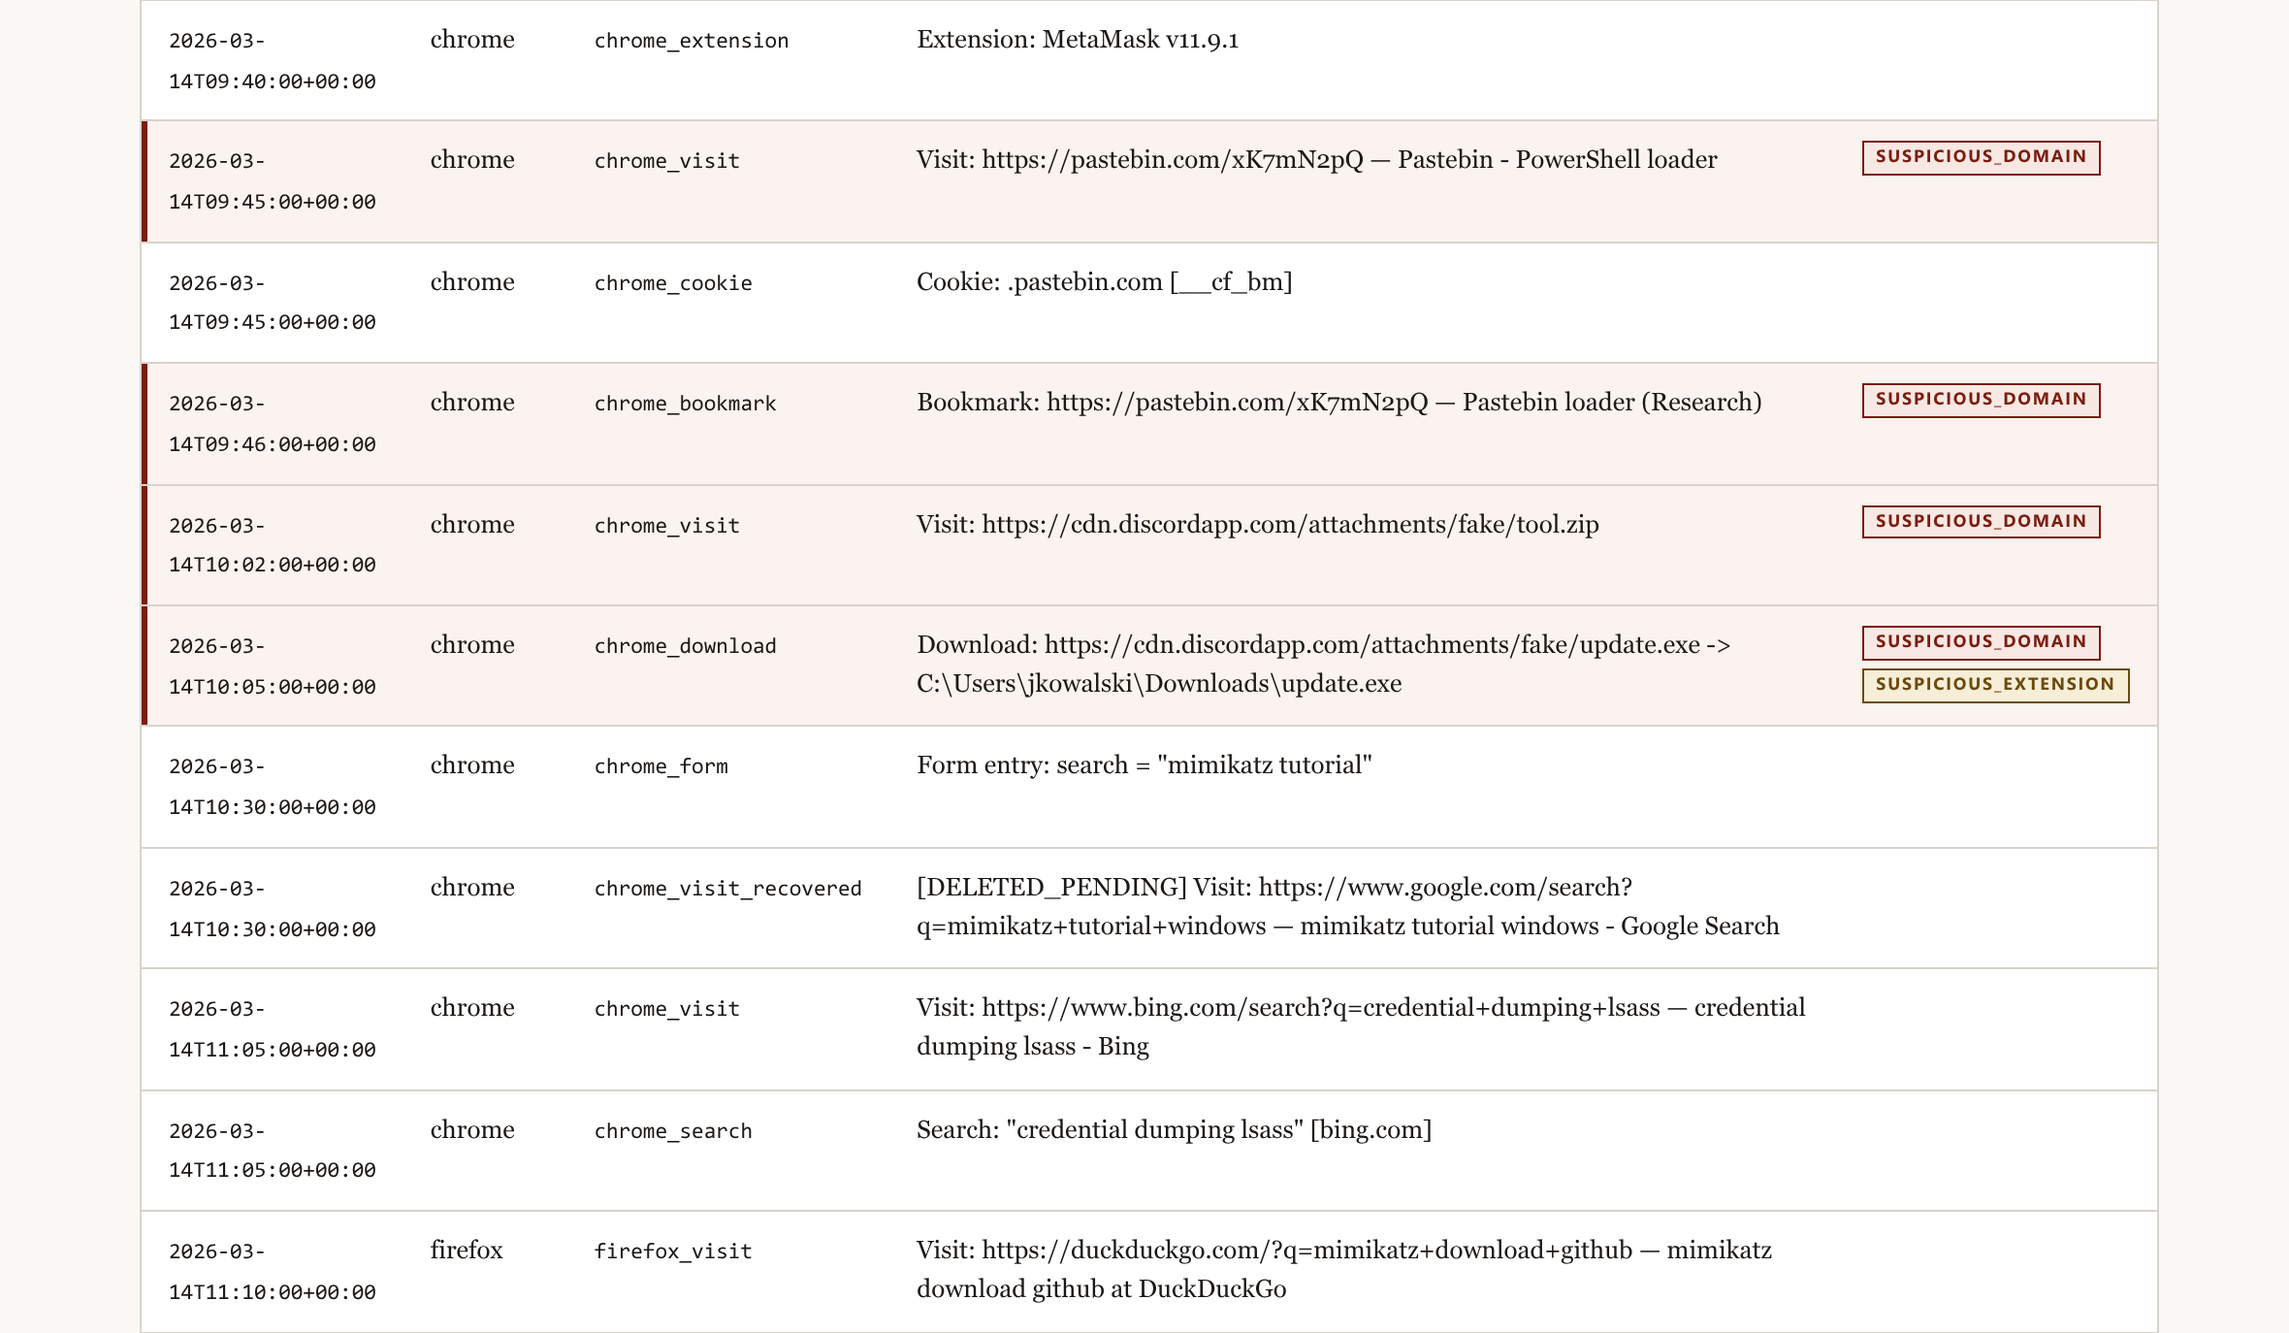
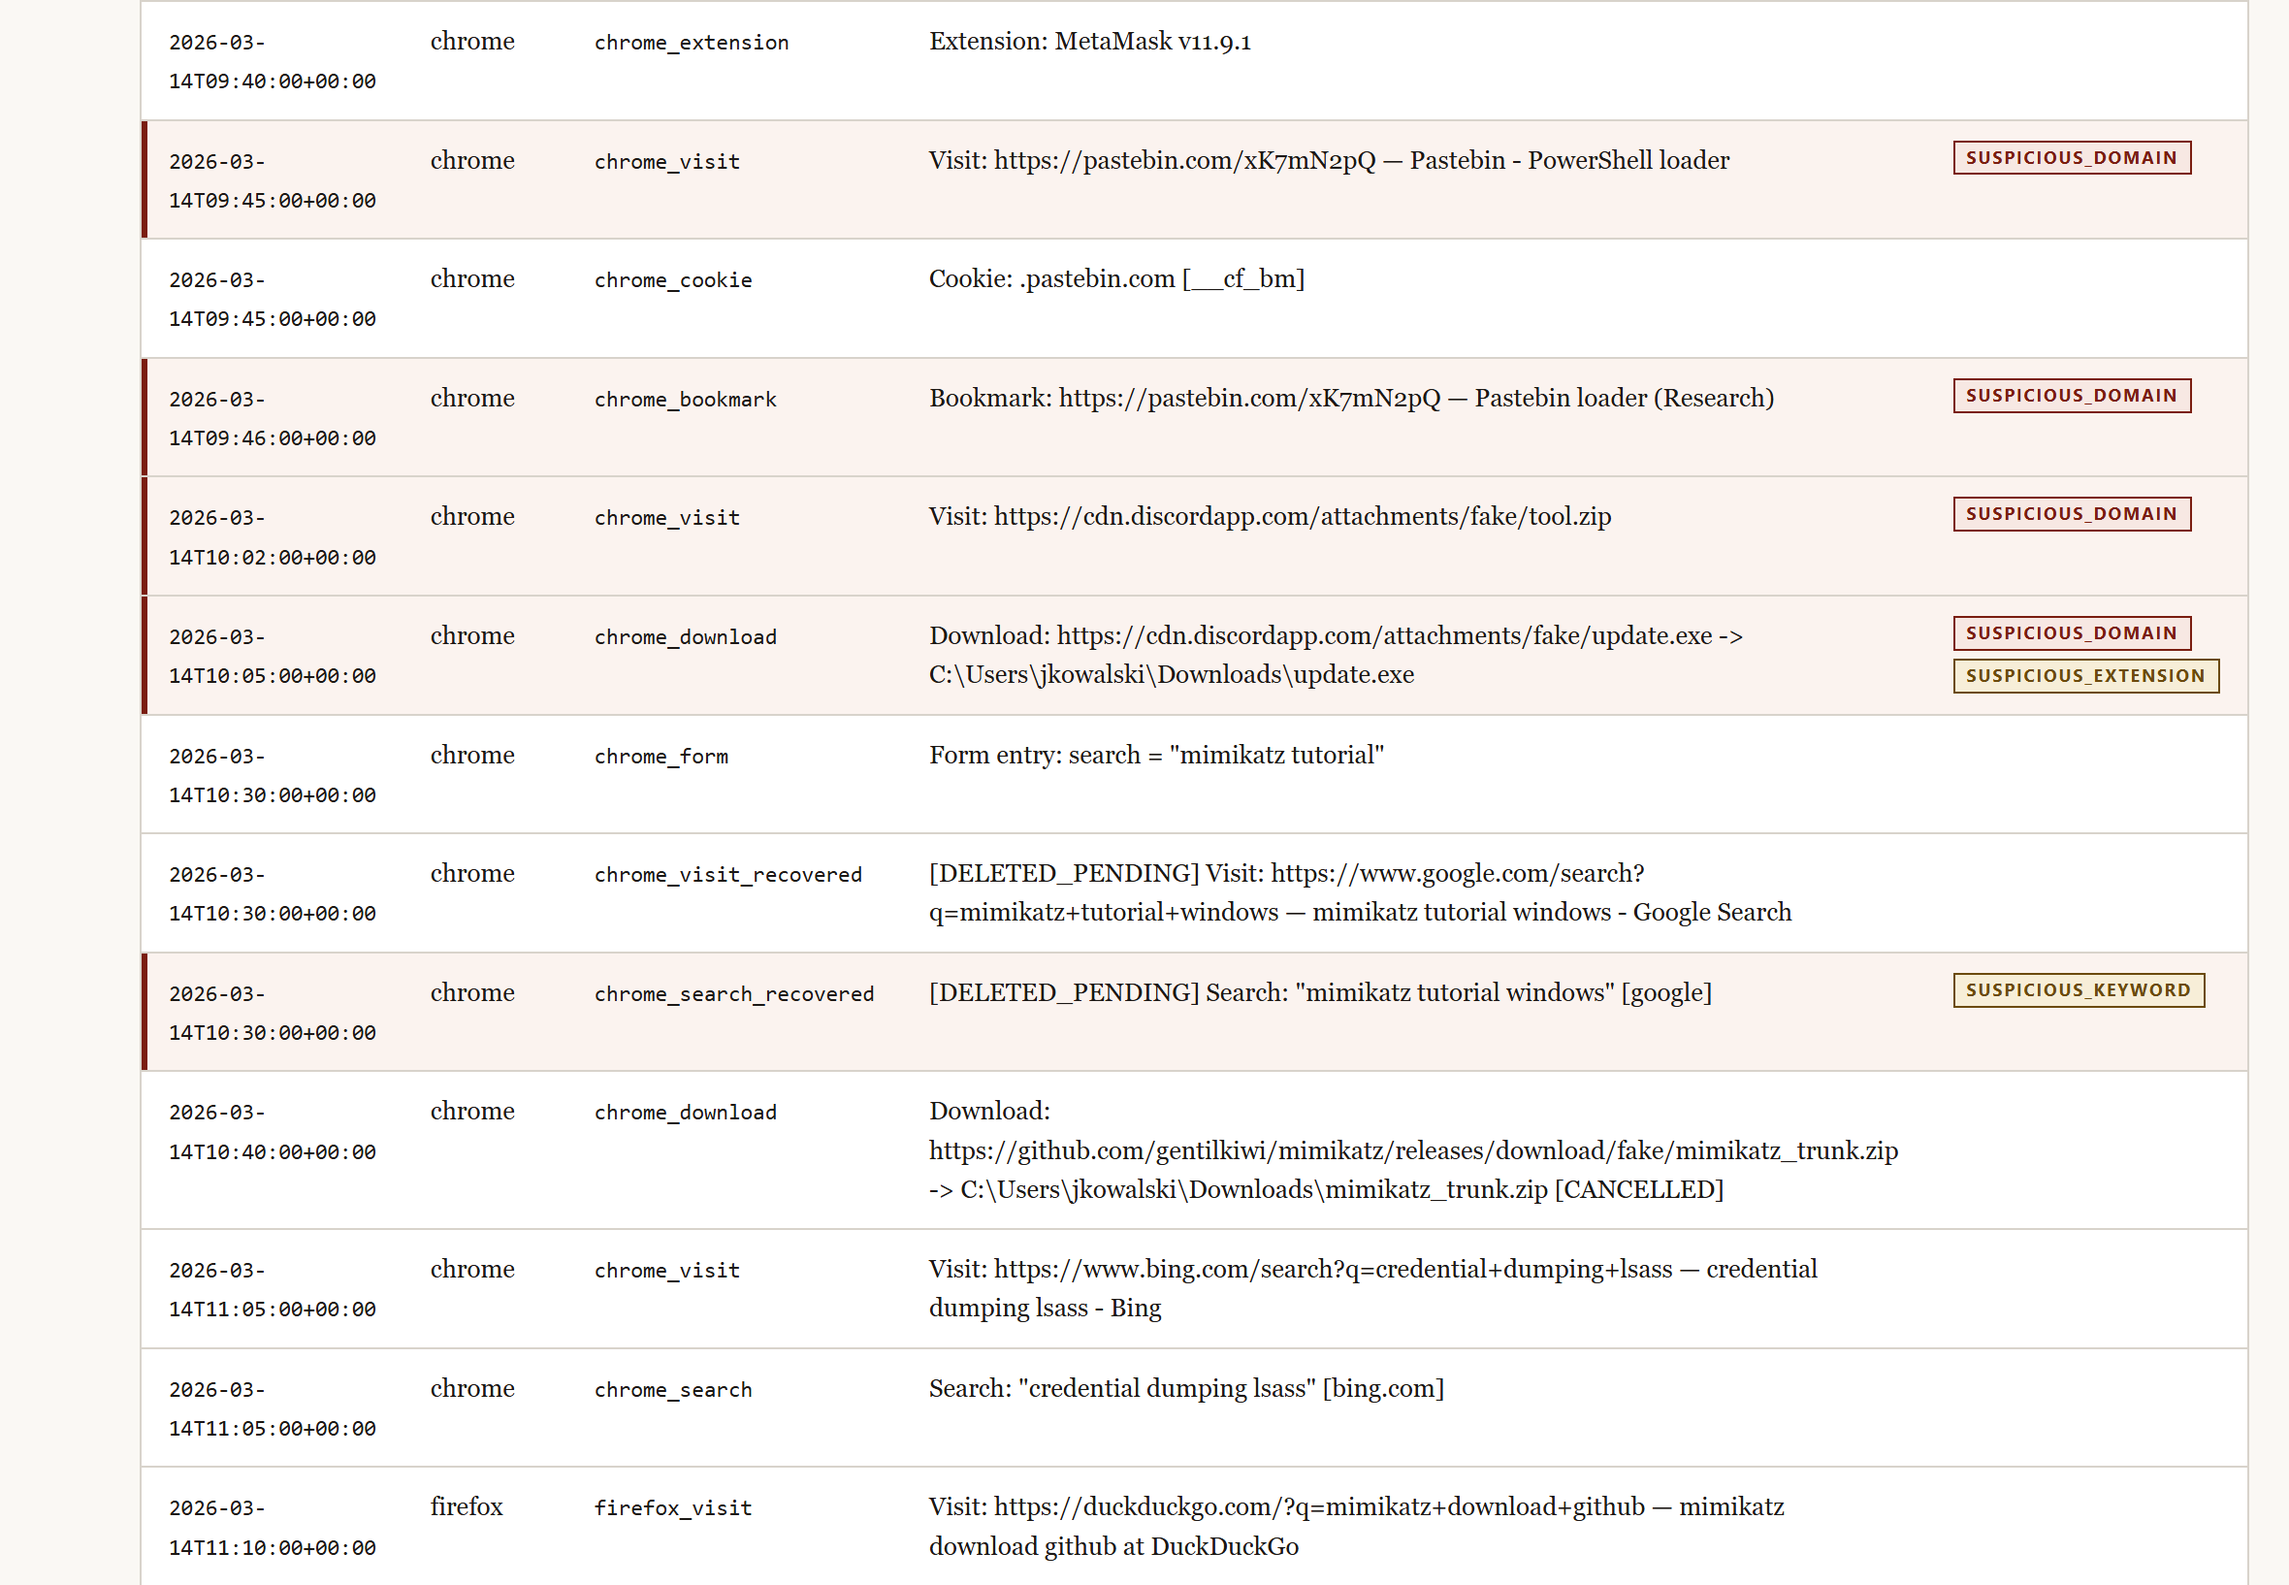
chore: prepare next release

diff --git a/main.py b/main.py
@@ -6,7 +6,7 @@ Orchestrates the full forensic pipeline:
   2. build a unified, chronological timeline
   3. (optional) narrow it to a time window
   4. detect anomalies against an IOC config
-  5. render HTML and/or CSV reports
+  5. render HTML, CSV and JSON reports
 
 Exit codes follow common DFIR-tool conventions:
   0 - success
@@ -71,7 +71,7 @@ def _parse_args(argv: list[str] | None = None) -> argparse.Namespace:
         description=(
             "Browser-Autopsy — offline DFIR analyzer for Chrome and Firefox "
             "artifacts. Builds a unified timeline, flags suspicious activity "
-            "against a configurable IOC set, and produces HTML/CSV reports."
+            "against a configurable IOC set, and produces HTML, CSV and JSON reports."
         ),
     )
 

diff --git a/analyzers/timeline.py b/analyzers/timeline.py
@@ -273,7 +273,7 @@ def collect_source_files(events: list[TimelineEvent]) -> dict[str, str]:
 
     A SQLite '-wal' file next to a source database is listed too: open_db
     replays it, so its content shapes the extracted records. Its hash is
-    calculated here, when the report is built, not before parsing.
+    calculated here, after parsing, not before.
     """
     files: dict[str, str] = {}
     for e in events:

diff --git a/tests/test_html_reporter.py b/tests/test_html_reporter.py
@@ -2,8 +2,6 @@ from __future__ import annotations
 
 from datetime import datetime, timezone
 
-import pytest
-
 from analyzers.anomaly import Anomaly
 from analyzers.timeline import TimelineEvent
 from reporters.html import _build_context, render_report

diff --git a/tests/test_json_reporter.py b/tests/test_json_reporter.py
@@ -3,7 +3,6 @@ Tests for reporters/json.py — machine-readable JSON export.
 """
 import json
 from datetime import datetime, timezone
-from pathlib import Path
 
 from analyzers.anomaly import Anomaly
 from analyzers.timeline import TimelineEvent

diff --git a/tests/test_chrome_downloads.py b/tests/test_chrome_downloads.py
@@ -4,7 +4,7 @@ from pathlib import Path
 
 import pytest
 
-from extractors.chrome import DownloadEntry, extract_downloads
+from extractors.chrome import extract_downloads
 
 # timestamps
 

diff --git a/samples/generate.py b/samples/generate.py
@@ -20,7 +20,6 @@ Outputs:
 import json
 import shutil
 import sqlite3
-import tempfile
 from pathlib import Path
 
 # Timestamp helpers

diff --git a/tests/test_chrome_history.py b/tests/test_chrome_history.py
@@ -1,6 +1,4 @@
-import shutil
 import sqlite3
-import tempfile
 from datetime import datetime, timezone
 from pathlib import Path
 

diff --git a/README.md b/README.md
@@ -104,7 +104,7 @@ The anomaly table lists every hit with its rule, reason and the IOC entry that m
 The full timeline highlights flagged rows. A visit that the user deleted, but
 that is still in the main database image, has the tag `DELETED_PENDING`.
 
-![Timeline rows with highlighted anomalies and one recovered deleted visit](docs/img/report-timeline.png)
+![Timeline rows with highlighted anomalies, one recovered deleted search and one cancelled download](docs/img/report-timeline.png)
 
 The screenshots show the demo case from this repository. The file
 `report_demo.html` in the repository root contains the same report.
@@ -326,7 +326,7 @@ cannot recover a record after SQLite merges the WAL and reuses the pages.
 ## Limitations
 
 1. The tool does not read cookie values. Chromium encrypts them with a key from the operating system.
-2. The tool calculates the hash of a `-wal` file when it writes the report, after it reads the database.
+2. The tool calculates the hash of a `-wal` file after it reads the database, not before.
 3. The WAL recovery finds only records that SQLite has not yet merged into the main file.
 4. The browser label from `--input` comes from the directory path. Use `--chrome-browser` or `--firefox-browser` with an explicit profile to set it.
 5. A domain entry without a wildcard does not match subdomains.
